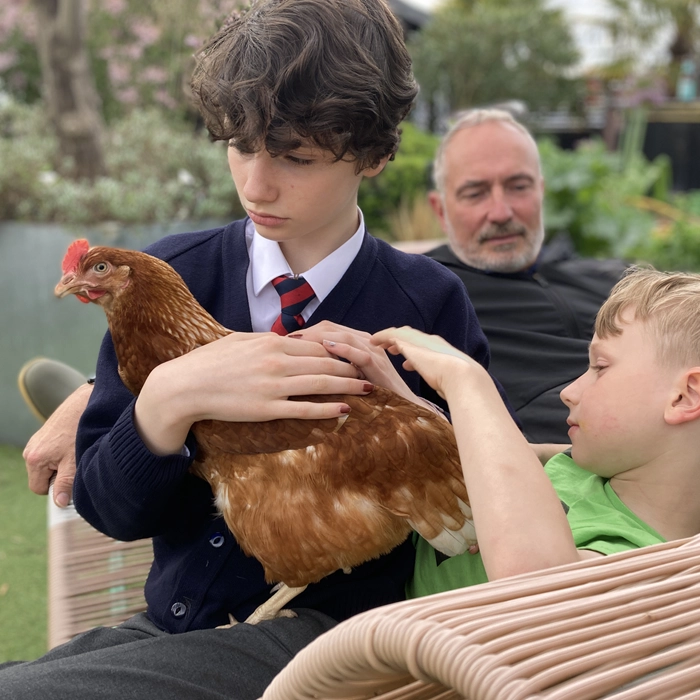
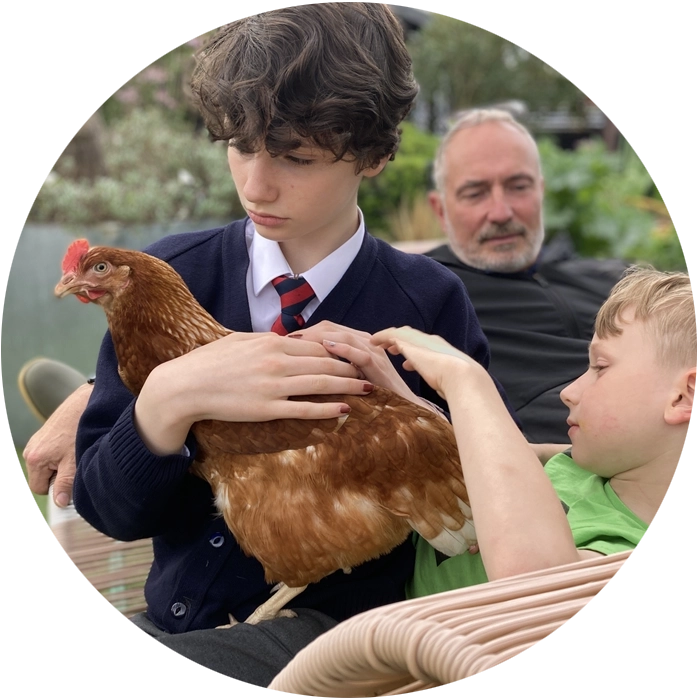
replace hentro img, style link to contact.html and img

Changed region(s): [[0.0, 0.0, 1.0, 1.0]]

diff --git a/courses.html b/courses.html
@@ -87,9 +87,9 @@
             </div>
             <div id="hentro-pic-button" class="picture-button-container">
                 <a class="get-in-touch" href="contact.html">
-                    button
+                    <h3>Get in<br>touch</h3>
                 </a>
-                <img id="hentro-image" src="assets/images/hentro.webp" alt="A brown hen sits with two children and a dad in a garden">
+                <img id="hentro-image" src="assets/images/hentro-edged.webp" alt="A brown hen sits with two children and a dad in a garden">
             </div>
             <div id="dr-hen" class="courses-titles">
                 <h4>Dr Hen - 1/2 day</h4>

diff --git a/assets/css/style.css b/assets/css/style.css
@@ -250,8 +250,17 @@ padding-left: 1.2rem;
 #hentro-image {
     width: 60%;
     height: auto;
+}
+
+.get-in-touch {
+    color: #ffffff;
+    padding:  20px 15px;
     border-radius: 50%;
-    transform: translateX(20px);
+    background-color: #bbbe64;
+    font-size: 80%;
+    text-decoration: none;
+    margin-top: 1.5rem;
+    margin-left: 1rem;
 }
 
 /* Contact page content */
